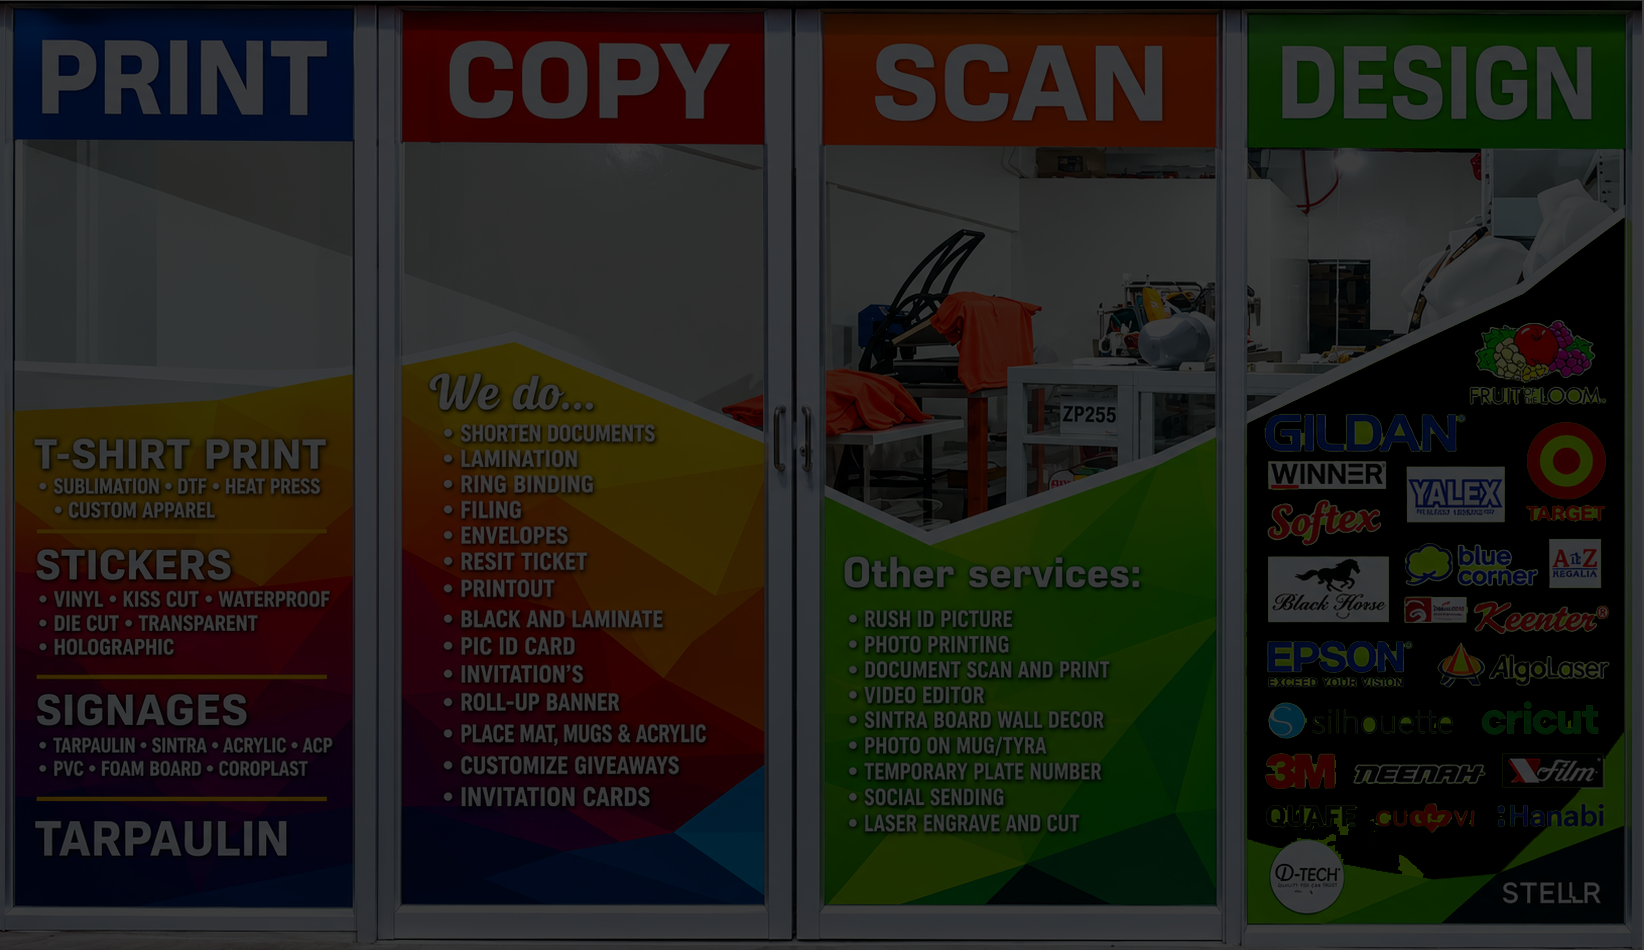
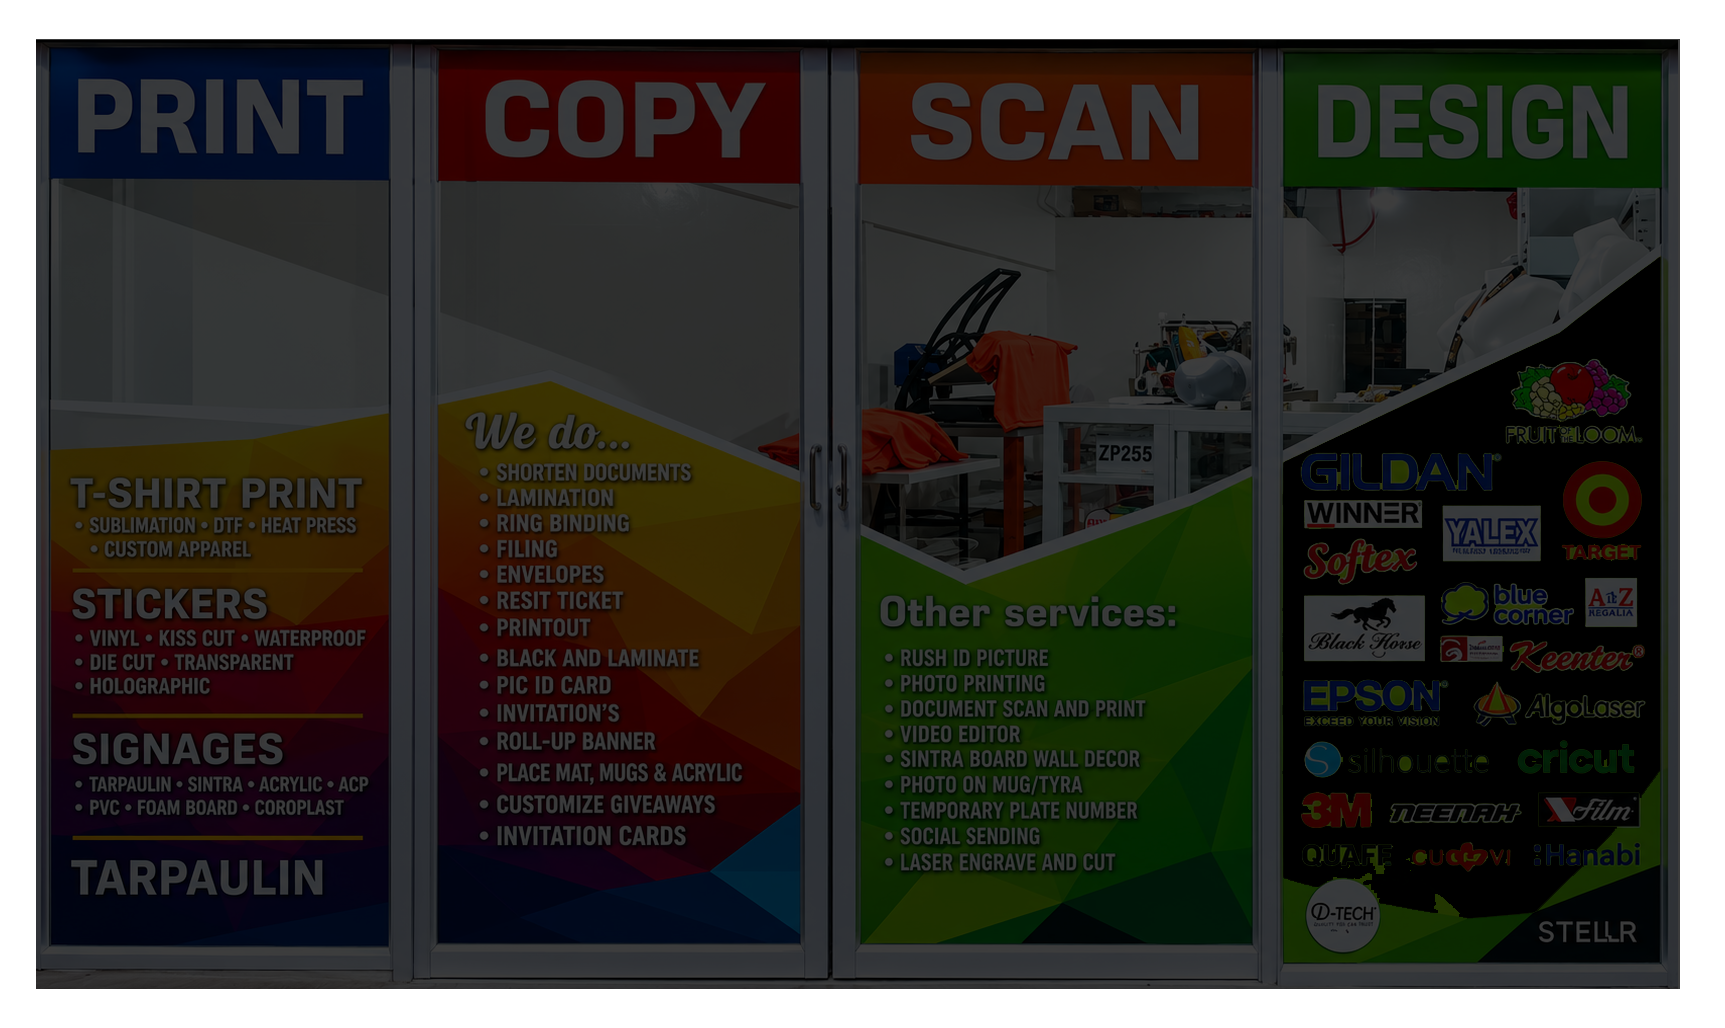
Update

diff --git a/src/components/Services/Services.jsx b/src/components/Services/Services.jsx
@@ -1,151 +1,41 @@
 import { useRef } from 'react'
 import { motion, useInView } from 'framer-motion'
-import {
-  FiPenTool,
-  FiPrinter,
-  FiCreditCard,
-  FiFileText,
-  FiGift,
-  FiTag,
-  FiMaximize2,
-} from 'react-icons/fi'
+import { FiPenTool, FiPrinter, FiCreditCard, FiFileText, FiGift, FiTag, FiMaximize2 } from 'react-icons/fi'
 import styles from './Services.module.css'
 
 const services = [
-  {
-    icon: FiPenTool,
-    title: 'Graphic Design',
-    desc: 'Creative designs for branding, social media, marketing materials, and custom projects.',
-    img: 'https://images.unsplash.com/photo-1626785774573-4b799315345d?w=800&q=80',
-    color: 'var(--primary)',
-    bg: 'var(--primary-dim)',
-  },
-
-  {
-    icon: FiPrinter,
-    title: 'Tarpaulin Printing',
-    desc: 'High-quality tarpaulins for events, promotions, businesses, and special occasions.',
-    img: 'https://images.unsplash.com/photo-1504384308090-c894fdcc538d?w=800&q=80',
-    color: 'var(--secondary)',
-    bg: 'var(--secondary-dim)',
-  },
-
-  {
-    icon: FiTag,
-    title: 'Stickers & Labels',
-    desc: 'Custom stickers, product labels, waterproof decals, and promotional materials.',
-    img: 'https://images.unsplash.com/photo-1586864387789-628af9feed72?w=800&q=80',
-    color: '#FF6B6B',
-    bg: 'rgba(255,107,107,0.12)',
-  },
-
-  {
-    icon: FiCreditCard,
-    title: 'Rush ID & ID Cards',
-    desc: 'Rush ID pictures, PVC ID cards, company IDs, and school identification cards.',
-    img: 'https://images.unsplash.com/photo-1573496773905-f5b17e717f05?w=800&q=80',
-    color: '#FFD93D',
-    bg: 'rgba(255,217,61,0.12)',
-  },
-
-  {
-    icon: FiFileText,
-    title: 'Document Services',
-    desc: 'Printout, photocopy, scanning, lamination, ring binding, filing, and document preparation.',
-    img: 'https://images.unsplash.com/photo-1517842645767-c639042777db?w=800&q=80',
-    color: '#C77DFF',
-    bg: 'rgba(199,125,255,0.12)',
-  },
-
-  {
-    icon: FiGift,
-    title: 'Customized Giveaways',
-    desc: 'Personalized mugs, acrylic products, giveaways, souvenirs, and promotional items.',
-    img: 'https://images.unsplash.com/photo-1513475382585-d06e58bcb0e0?w=800&q=80',
-    color: 'var(--primary)',
-    bg: 'var(--primary-dim)',
-  },
-
-  {
-    icon: FiMaximize2,
-    title: 'Signages & Large Format Printing',
-    desc: 'Signages, roll-up banners, sintra boards, wall décor, and large promotional displays.',
-    img: 'https://images.unsplash.com/photo-1524758631624-e2822e304c36?w=800&q=80',
-    color: 'var(--secondary)',
-    bg: 'var(--secondary-dim)',
-  },
+  { icon: FiPenTool, title: 'Graphic Design', desc: 'Logos, social media graphics, layouts, and brand identity — designed to stand out.', color: 'var(--primary)', bg: 'var(--primary-dim)' },
+  { icon: FiPrinter, title: 'Tarpaulin Printing', desc: 'Vibrant, weather-resistant tarps for events, promotions, and storefronts.', color: 'var(--secondary)', bg: 'var(--secondary-dim)' },
+  { icon: FiCreditCard, title: 'Business Cards', desc: 'Premium-feel business cards with custom finishes. First impressions that last.', color: '#FF6B6B', bg: 'rgba(255,107,107,0.12)' },
+  { icon: FiFileText, title: 'Flyers & Brochures', desc: 'Eye-catching flyers and tri-fold brochures for events, promotions, and services.', color: '#FFD93D', bg: 'rgba(255,217,61,0.12)' },
+  { icon: FiGift, title: 'Invitations', desc: 'Elegant printed invitations for weddings, debuts, birthdays, and corporate events.', color: '#C77DFF', bg: 'rgba(199,125,255,0.12)' },
+  { icon: FiTag, title: 'Stickers & Labels', desc: 'Custom die-cut stickers, product labels, and waterproof vinyl decals.', color: 'var(--primary)', bg: 'var(--primary-dim)' },
+  { icon: FiMaximize2, title: 'Large Format Printing', desc: 'Banners, posters, foam boards, and backdrops printed in stunning large scale.', color: 'var(--secondary)', bg: 'var(--secondary-dim)' },
 ]
 
 export default function Services() {
   const ref = useRef(null)
-  const inView = useInView(ref, {
-    once: true,
-    margin: '-80px',
-  })
+  const inView = useInView(ref, { once: true, margin: '-80px' })
 
   return (
     <section id="services" className={styles.services}>
       <div className="container">
-        <motion.div
-          ref={ref}
-          initial={{ opacity: 0, y: 20 }}
-          animate={inView ? { opacity: 1, y: 0 } : {}}
-          transition={{ duration: 0.6 }}
-          className={styles.header}
-        >
+        <motion.div ref={ref} initial={{ opacity: 0, y: 20 }} animate={inView ? { opacity: 1, y: 0 } : {}} transition={{ duration: 0.6 }} className={styles.header}>
           <p className="section-label">What We Do</p>
           <h2 className="section-title">Services We Offer</h2>
-          <p className="section-subtitle">
-            Professional design, printing, and branding solutions tailored for
-            businesses, organizations, and individuals.
-          </p>
+          <p className="section-subtitle">From your first logo to a full print run — we have every creative need covered.</p>
         </motion.div>
-
         <div className={styles.grid}>
           {services.map((s, i) => (
-            <motion.div
-              key={s.title}
-              className={styles.card}
-              initial={{ opacity: 0, y: 24 }}
-              animate={inView ? { opacity: 1, y: 0 } : {}}
-              transition={{
-                duration: 0.5,
-                delay: 0.1 + i * 0.07,
-              }}
-              whileHover={{ y: -6 }}
-            >
-              <div className={styles.imageWrap}>
-                <img
-                  src={s.img}
-                  alt={s.title}
-                  className={styles.image}
-                  loading="lazy"
-                />
-              </div>
-
-              <div
-                className={styles.iconWrap}
-                style={{
-                  background: s.bg,
-                  color: s.color,
-                }}
-              >
+            <motion.div key={s.title} className={styles.card}
+              initial={{ opacity: 0, y: 24 }} animate={inView ? { opacity: 1, y: 0 } : {}}
+              transition={{ duration: 0.5, delay: 0.1 + i * 0.07 }} whileHover={{ y: -4 }}>
+              <div className={styles.iconWrap} style={{ background: s.bg, color: s.color }}>
                 <s.icon size={22} />
               </div>
-
               <h3 className={styles.cardTitle}>{s.title}</h3>
-
-              <p className={styles.cardDesc}>
-                {s.desc}
-              </p>
-
-              <a
-                href="#contact"
-                className={styles.cardLink}
-                style={{ color: s.color }}
-              >
-                Get a Quote →
-              </a>
+              <p className={styles.cardDesc}>{s.desc}</p>
+              <a href="#contact" className={styles.cardLink} style={{ color: s.color }}>Get a Quote →</a>
             </motion.div>
           ))}
         </div>

diff --git a/src/components/Testimonials/Testimonials.jsx b/src/components/Testimonials/Testimonials.jsx
@@ -4,12 +4,48 @@ import { FiStar } from 'react-icons/fi'
 import styles from './Testimonials.module.css'
 
 const reviews = [
-  { name: 'Maria Santos', role: 'Small Business Owner', avatar: 'MS', rating: 5, text: 'stellr.grafix designed our store signage and business cards. The quality is amazing and they delivered ahead of schedule. Will definitely order again!' },
-  { name: 'Kevin Reyes', role: 'Event Organizer', avatar: 'KR', rating: 5, text: 'Ordered 10 tarpaulins for our company event and everything looked sharp and professional. Fast turnaround, great price. Highly recommended!' },
-  { name: 'Jasmine Dela Cruz', role: 'Cake Business Owner', avatar: 'JD', rating: 5, text: 'They designed my product labels and stickers — so beautiful! My customers kept asking where I got them. 100% coming back for more orders.' },
-  { name: 'Angelo Bautista', role: 'College Student', avatar: 'AB', rating: 5, text: 'Needed a last-minute tarpaulin for our school event. They pulled it off in just a few hours and the print quality was excellent. Thank you!' },
-  { name: 'Lhea Mendoza', role: 'Bride', avatar: 'LM', rating: 5, text: 'Our wedding invitations were absolutely stunning. Every detail was perfect — exactly what I envisioned. stellr.grafix made our big day even more special.' },
-  { name: 'Carlo Villanueva', role: 'Restaurant Owner', avatar: 'CV', rating: 5, text: 'From menu designs to wall graphics, they handled everything with professionalism. The team is communicative and responsive. Best design shop in Caloocan!' },
+  {
+    name: 'Maria Santos',
+    role: 'May-ari ng Maliit na Negosyo',
+    avatar: 'MS',
+    rating: 5,
+    text: 'Napakaganda ng pagkakagawa ng aming signage at business cards. Malinis ang design, mataas ang kalidad ng print, at mas maaga pa sa inaasahang oras ang delivery. Siguradong uulit kami ng order!'
+  },
+  {
+    name: 'Kevin Reyes',
+    role: 'Event Organizer',
+    avatar: 'KR',
+    rating: 5,
+    text: 'Nagpagawa kami ng mga tarpaulin para sa company event at sobrang professional ng resulta. Malinaw ang print, mabilis ang serbisyo, at sulit sa presyo. Highly recommended!'
+  },
+  {
+    name: 'Jasmine Dela Cruz',
+    role: 'May-ari ng Cake Business',
+    avatar: 'JD',
+    rating: 5,
+    text: 'Sobrang ganda ng design ng product labels at stickers ko. Marami sa mga customer ko ang nagtatanong kung saan ko ito ipinagawa. Talagang babalik ako para sa susunod na orders.'
+  },
+  {
+    name: 'Angelo Bautista',
+    role: 'Estudyante',
+    avatar: 'AB',
+    rating: 5,
+    text: 'Kailangan namin ng tarpaulin nang biglaan para sa school event at agad nila itong nagawa. Maganda ang quality ng print at napakabilis ng serbisyo. Maraming salamat!'
+  },
+  {
+    name: 'Lhea Mendoza',
+    role: 'Bride',
+    avatar: 'LM',
+    rating: 5,
+    text: 'Napakaganda ng aming wedding invitations. Eksaktong-eksakto sa gusto naming disenyo at napakaganda ng pagkakaprint. Mas naging espesyal ang aming kasal dahil sa kanilang mahusay na trabaho.'
+  },
+  {
+    name: 'Carlo Villanueva',
+    role: 'May-ari ng Restaurant',
+    avatar: 'CV',
+    rating: 5,
+    text: 'Mula sa menu design hanggang sa mga wall graphics, maayos at propesyonal nilang naasikaso ang lahat. Madaling kausap at mabilis tumugon. Isa sa pinakamahusay na printing at design services na nasubukan namin.'
+  },
 ]
 
 export default function Testimonials() {

diff --git a/src/components/About/About.jsx b/src/components/About/About.jsx
@@ -5,9 +5,31 @@ import { FiTarget, FiEye, FiStar, FiZap, FiShield, FiHeart } from 'react-icons/f
 import styles from './About.module.css'
 
 const reasons = [
-  { icon: FiZap, title: 'Fast Turnaround', desc: 'Rush orders? No problem. We deliver quality prints on time, every time.' },
-  { icon: FiShield, title: 'Premium Quality', desc: 'We use top-grade materials and equipment for crisp, vibrant results.' },
-  { icon: FiHeart, title: 'Client-First', desc: 'Your satisfaction is our priority — revisions until you love it.' },
+  {
+    icon: FiShield,
+    title: 'BIR Registered',
+    desc: 'A legitimate and registered business committed to professional and reliable service.'
+  },
+  {
+    icon: FiStar,
+    title: 'PhilGEPS Registered',
+    desc: 'Qualified to serve government agencies and public sector projects through PhilGEPS.'
+  },
+  {
+    icon: FiZap,
+    title: 'Fast Turnaround',
+    desc: 'Rush orders? No problem. We deliver quality prints on time, every time.'
+  },
+  {
+    icon: FiHeart,
+    title: 'Customer-Focused',
+    desc: 'We work closely with every client to ensure satisfaction from design to final print.'
+  },
+  {
+    icon: FiShield,
+    title: 'Premium Quality',
+    desc: 'Using professional-grade materials and equipment for vibrant, long-lasting results.'
+  }
 ]
 
 function FadeIn({ children, delay = 0 }) {
@@ -35,9 +57,9 @@ export default function About() {
               <p className="section-label">About Us</p>
               <h2 className="section-title">Built in Caloocan.<br />Made for Everyone.</h2>
               <p className={styles.desc}>
-We are proudly serving clients in North Caloocan City and nearby areas. Stellr Grafix helps businesses, professionals, and organizations transform ideas into impactful visual solutions through creative graphic design, branding, and premium-quality printing services.
-As a locally owned business, we take pride in handling our work in-house—from design and production to quality control—allowing us to maintain high standards, reliable turnaround times, and personalized service for every client.
-From marketing materials and business essentials to large-format prints and customized products, we create work that strengthens brands, captures attention, and leaves lasting impressions. with their audience, and build a strong brand presence.
+We proudly serve clients in North Caloocan City and nearby areas, helping businesses, professionals, and organizations bring their ideas to life through creative graphic design, branding, and premium-quality printing services.
+
+As a locally owned business, we take pride in handling our work in-house—from design and production to quality control—allowing us to maintain high standards, reliable turnaround times, and personalized service while creating materials that strengthen brands, capture attention, and leave lasting impressions.
               </p>
             </FadeIn>
 
@@ -93,6 +115,7 @@ From marketing materials and business essentials to large-format prints and cust
                   <FiStar style={{ color: '#FFD700' }} size={20} />
                   <span className={styles.glassLabel}>Top Rated in Caloocan</span>
                 </div>
+                
               </div>
             </FadeIn>
           </div>

diff --git a/src/components/Portfolio/Portfolio.jsx b/src/components/Portfolio/Portfolio.jsx
@@ -2,18 +2,27 @@ import { useRef, useState } from 'react'
 import { motion, useInView } from 'framer-motion'
 import styles from './Portfolio.module.css'
 
+
 const categories = ['All', 'Design', 'Print', 'Branding']
 
 const items = [
-  { id: 1, title: 'Brand Identity', cat: 'Branding', img: 'https://images.unsplash.com/photo-1626785774573-4b799315345d?w=600&q=80' },
-  { id: 2, title: 'Event Tarpaulin', cat: 'Print', img: 'https://images.unsplash.com/photo-1558618666-fcd25c85cd64?w=600&q=80' },
-  { id: 3, title: 'Business Cards', cat: 'Print', img: 'https://images.unsplash.com/photo-1611532736597-de2d4265fba3?w=600&q=80' },
-  { id: 4, title: 'Social Media Kit', cat: 'Design', img: 'https://images.unsplash.com/photo-1611162617213-7d7a39e9b1d7?w=600&q=80' },
-  { id: 5, title: 'Logo Design', cat: 'Branding', img: 'https://images.unsplash.com/photo-1634942537034-2531766767d1?w=600&q=80' },
-  { id: 6, title: 'Flyer Design', cat: 'Design', img: 'https://images.unsplash.com/photo-1586717799252-bd134ad00e26?w=600&q=80' },
-  { id: 7, title: 'Product Labels', cat: 'Print', img: 'https://images.unsplash.com/photo-1586864387789-628af9feed72?w=600&q=80' },
-  { id: 8, title: 'Birthday Invite', cat: 'Design', img: 'https://images.unsplash.com/photo-1558618047-3c8c76ca7d13?w=600&q=80' },
-  { id: 9, title: 'Banner Design', cat: 'Print', img: 'https://images.unsplash.com/photo-1571019614242-c5c5dee9f50b?w=600&q=80' },
+  // PRINT
+  { id: 1, title: 'Photo Tile Wall Display', cat: 'Print', img: '/images/portfolio/print.jpg' },
+  { id: 2, title: 'Personalized Sintra Board', cat: 'Print', img: '/images/portfolio/print1.jpg' },
+  { id: 3, title: 'Personalized Sintra Board', cat: 'Print', img: '/images/portfolio/print9.jpg' },
+  { id: 4, title: 'Personalized Sintra Board', cat: 'Print', img: '/images/portfolio/print2.jpg' },
+  { id: 5, title: 'Personalized Sintra Board', cat: 'Print', img: '/images/portfolio/print3.jpg' },
+  { id: 6, title: 'Plaque Recognition', cat: 'Print', img: '/images/portfolio/print7.jpg' },
+  { id: 7, title: 'Personalized Sintra Board', cat: 'Print', img: '/images/portfolio/print4.jpg' },
+  { id: 8, title: 'Personalized Sintra Board', cat: 'Print', img: '/images/portfolio/print5.jpg' },
+  { id: 9, title: 'Loyalty Card', cat: 'Print', img: '/images/portfolio/print6.jpg' },
+
+  // BRANDING
+  { id: 10, title: 'Logo Design', cat: 'Branding', img: 'https://images.unsplash.com/photo-1634942537034-2531766767d1?w=600&q=80' },
+
+  // DESIGN
+  { id: 11, title: 'Social Media Kit', cat: 'Design', img: 'https://images.unsplash.com/photo-1611162617213-7d7a39e9b1d7?w=600&q=80' },
+  { id: 12, title: 'Flyer Design', cat: 'Design', img: 'https://images.unsplash.com/photo-1586717799252-bd134ad00e26?w=600&q=80' },
 ]
 
 export default function Portfolio() {

diff --git a/src/components/Footer/Footer.jsx b/src/components/Footer/Footer.jsx
@@ -20,7 +20,7 @@ export default function Footer() {
               <div className={styles.logo}>
                 <div className={styles.logoMark}>S</div>
                 <span className={styles.logoText}>
-                  stellr<span className={styles.dot}>.</span><span className={styles.gray}>grafix</span>
+                  Stellr<span className={styles.dot}> </span><span className={styles.gray}>Grafix</span>
                 </span>
               </div>
               <p className={styles.tagline}>
@@ -53,7 +53,7 @@ export default function Footer() {
                   <FiMail size={14} /> [email redacted]
                 </a>
                 <span className={styles.contactItem} style={{ cursor: 'default' }}>
-                  Caloocan City, Metro Manila
+                  987 Ilang-ilang, Barangay 188, Caloocan, 1427 Metro Manila
                 </span>
               </div>
             </div>
@@ -64,8 +64,8 @@ export default function Footer() {
       <div className={styles.bottom}>
         <div className="container">
           <div className={styles.bottomInner}>
-            <span>© 2026 stellr.grafix — All rights reserved.</span>
-            <span className={styles.poweredBy}>Powered by <span style={{ color: 'var(--primary)' }}>Nino</span></span>
+            <span>© 2024 Stellr Grafix — All rights reserved.</span>
+            <span className={styles.poweredBy}>Powered by <span style={{ color: 'var(--primary)' }}>Niño</span></span>
           </div>
         </div>
       </div>

diff --git a/src/components/Contact/Contact.jsx b/src/components/Contact/Contact.jsx
@@ -11,7 +11,7 @@ const EMAILJS_PUBLIC_KEY = 'YOUR_PUBLIC_KEY'
 const info = [
   { icon: FiPhone, label: 'Phone', value: '[phone redacted]', href: 'tel:[phone redacted]' },
   { icon: FiMail, label: 'Email', value: '[email redacted]', href: 'mailto:[email redacted]' },
-  { icon: FiMapPin, label: 'Address', value: 'Caloocan City, Metro Manila, Philippines', href: null },
+  { icon: FiMapPin, label: 'Address', value: '987 Ilang-ilang Street, Barrio Concepcion Tala, Caloocan, Philippines, 1427', href: null },
 ]
 
 export default function Contact() {
@@ -90,7 +90,7 @@ export default function Contact() {
                 <div className={styles.mapSub}>Metro Manila, Philippines</div>
               </div>
               <a
-                href="https://www.google.com/maps/search/Caloocan+City+Metro+Manila"
+                href="https://maps.app.goo.gl/2pz31qFiWoidgP4D6"
                 target="_blank"
                 rel="noopener noreferrer"
                 className={styles.mapLink}

diff --git a/src/components/Hero/Hero.jsx b/src/components/Hero/Hero.jsx
@@ -16,7 +16,7 @@ export default function Hero() {
         <div className={styles.orb2} />
         <div className={styles.grid} />
       </div>
-
+      
       <div className={`container ${styles.content}`}>
         <motion.div className={styles.badge} {...fadeUp(0)}>
           <span className={styles.badgeDot} />